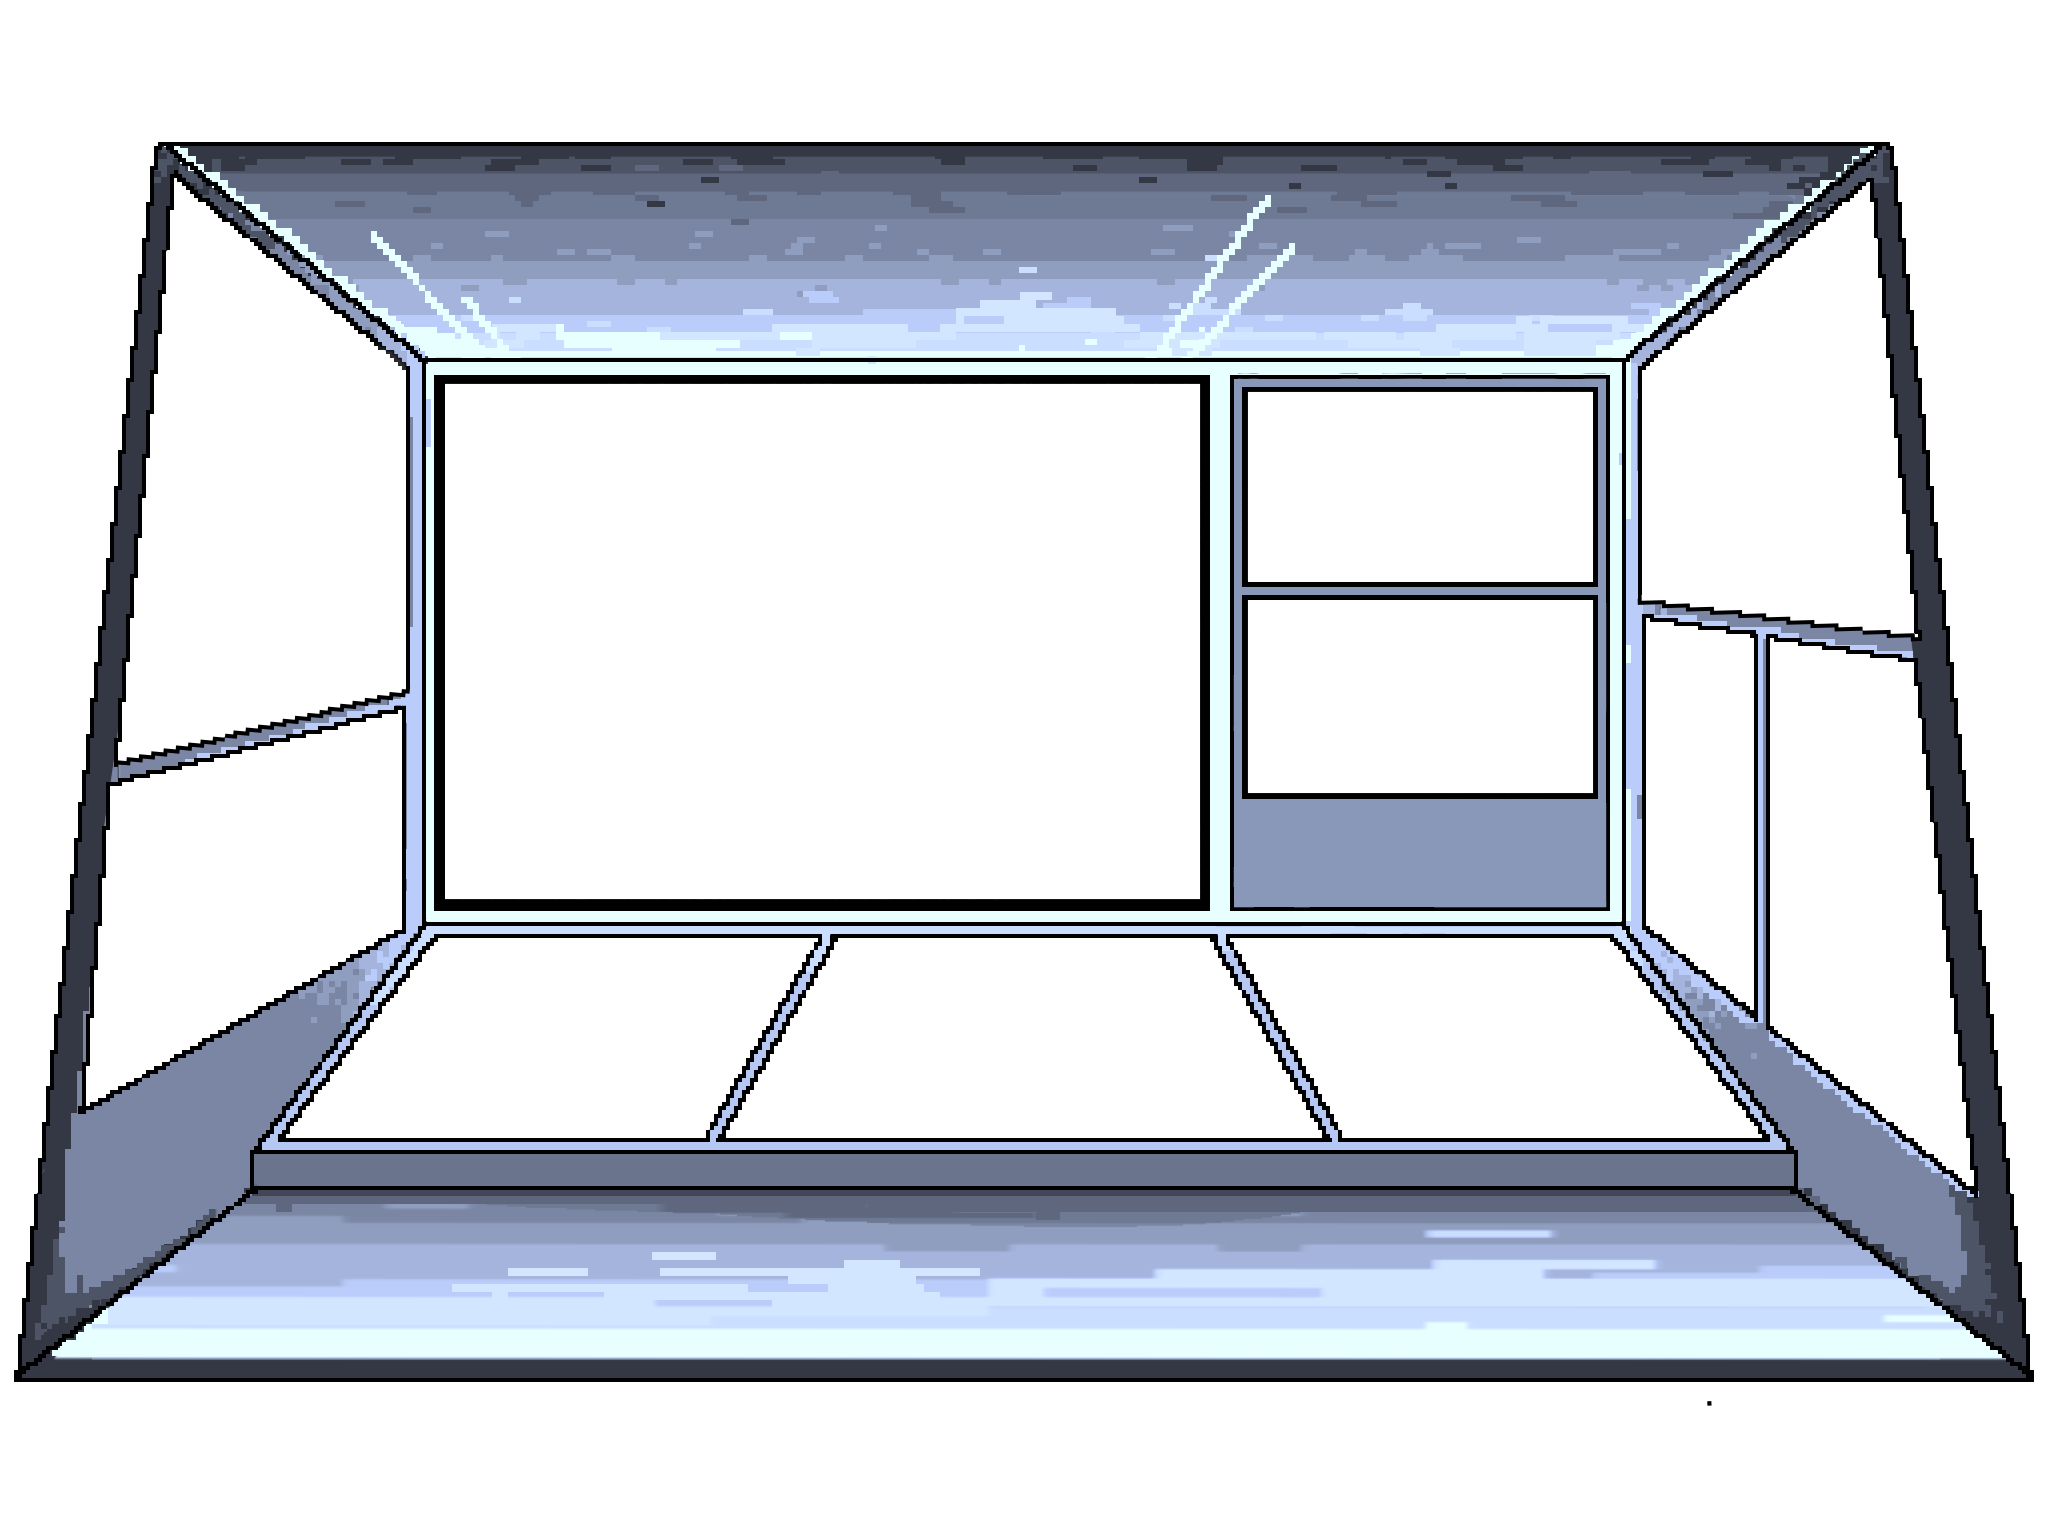
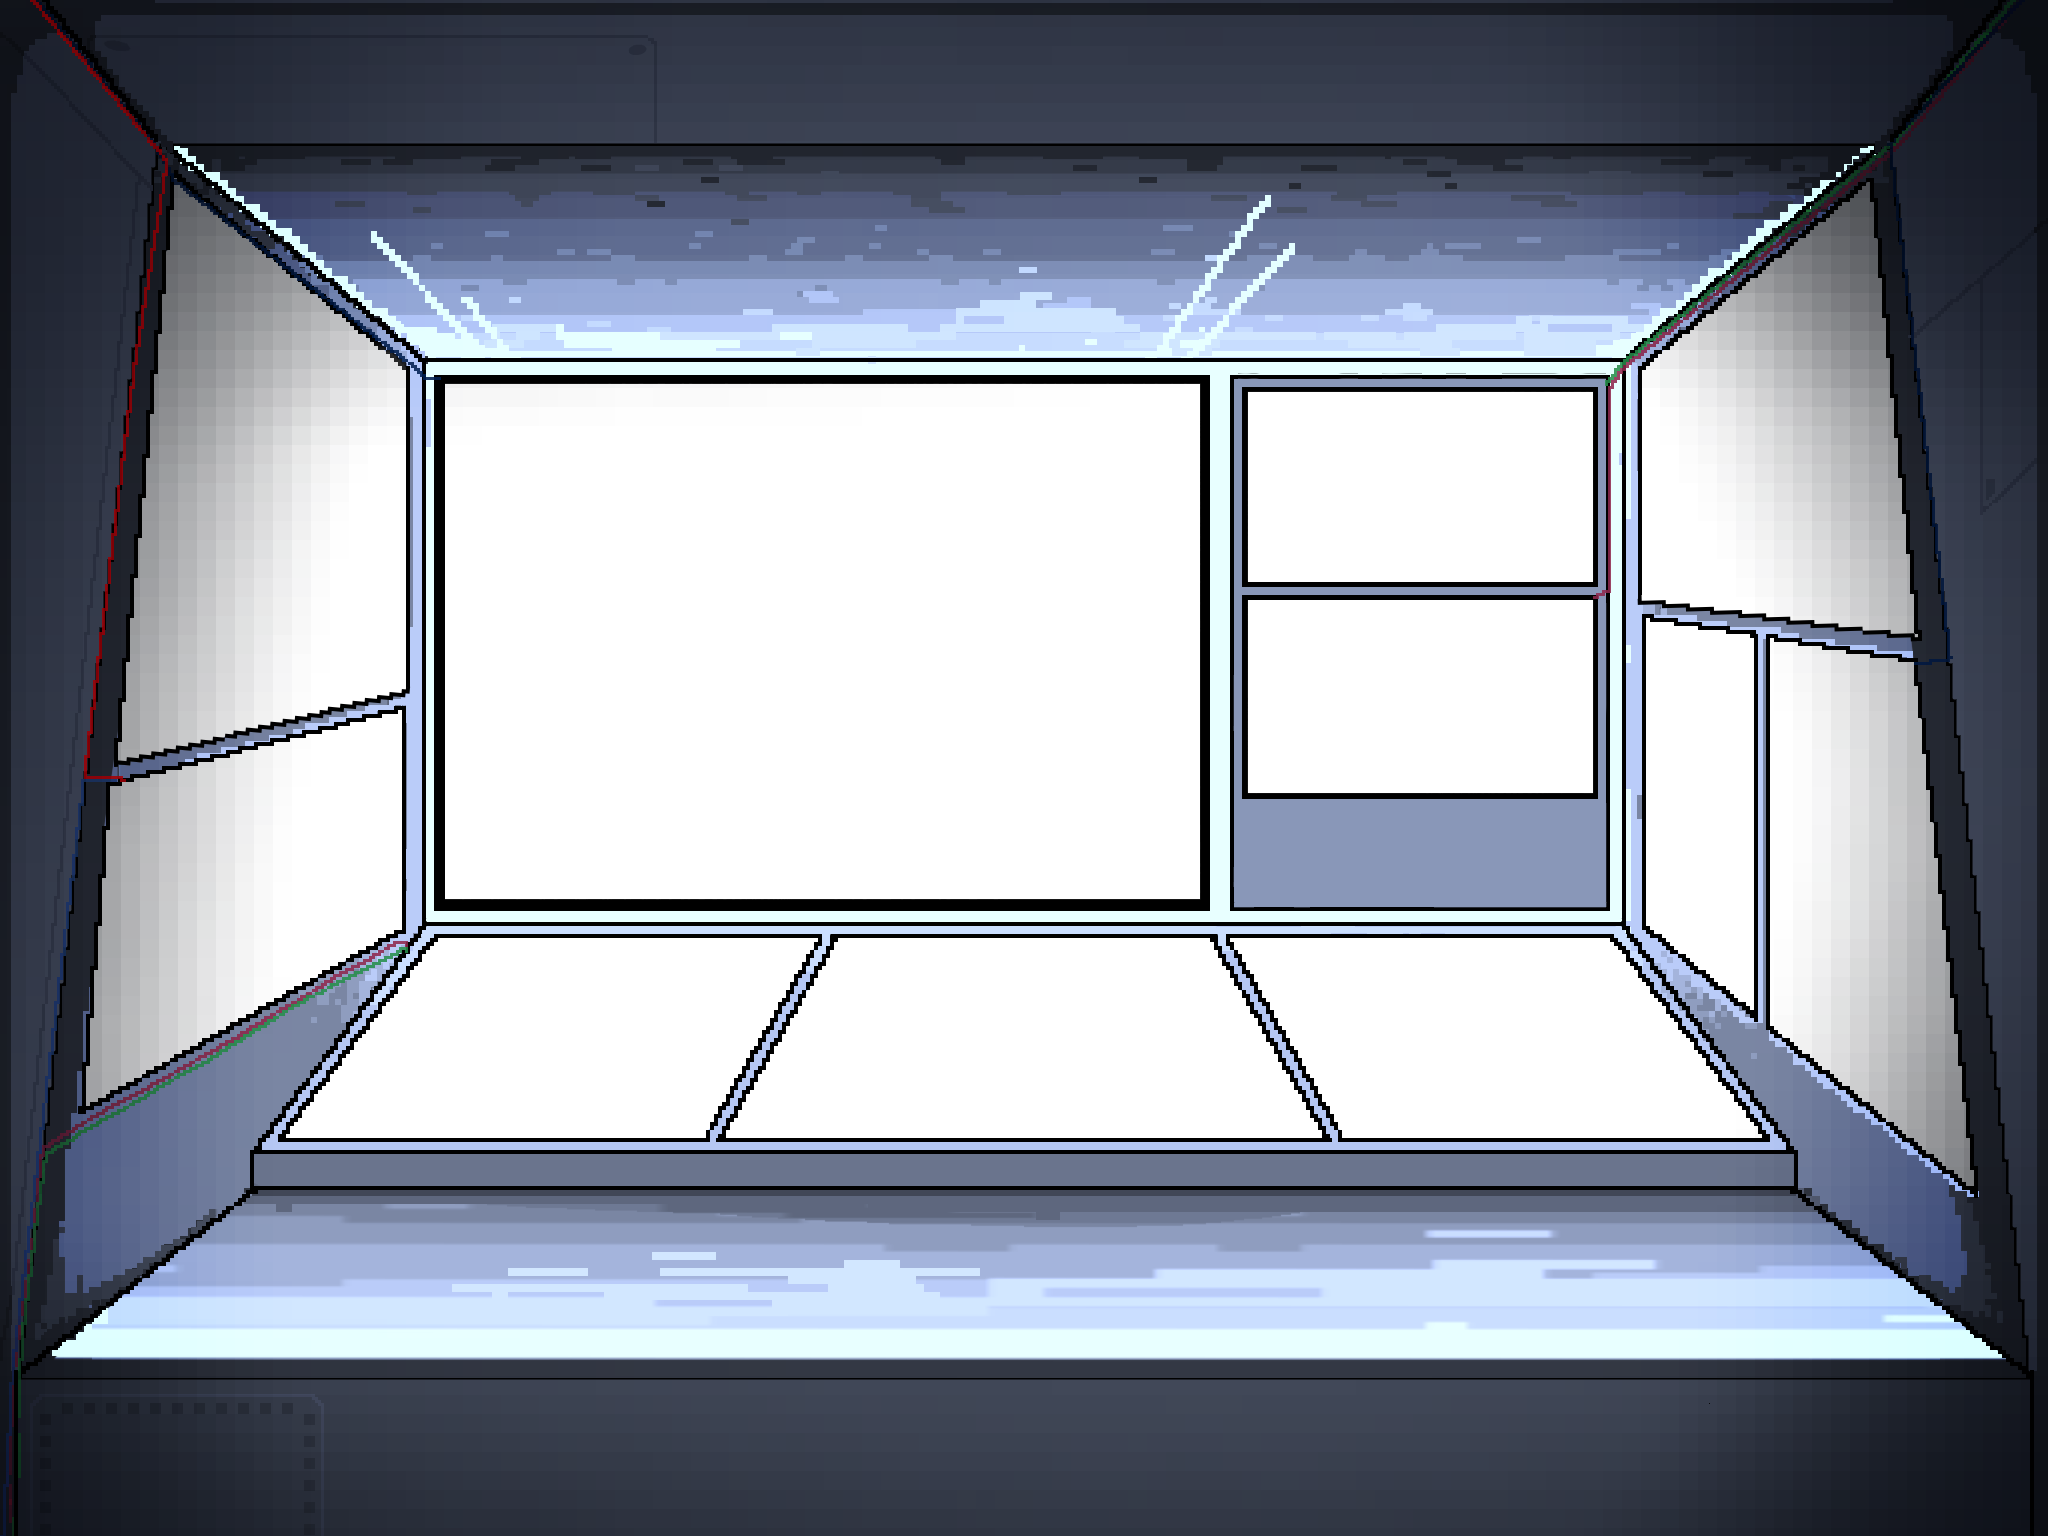
Changed CSS layout and added cams, green panels, and camera buttons

diff --git a/src/components/CameraMonitor.css b/src/components/CameraMonitor.css
@@ -1,0 +1,62 @@
+.camera-monitor-wrapper {
+  position: absolute;
+  top: 0;
+  left: 0;
+  width: 100%;
+  height: 100%;
+  pointer-events: none;
+}
+
+.camera-screen-container {
+  position: absolute;
+  top: 157px;
+  left: 197px;
+  width: 330px;
+  height: 225px;
+  overflow: hidden;
+  background: #000;
+  z-index: 1; 
+  pointer-events: auto;
+}
+
+.camera-feed-img {
+  width: 100%;
+  height: 100%;
+  object-fit: cover;
+}
+
+.cam-hud-overlay {
+  position: absolute;
+  top: 8px;
+  left: 8px;
+  color: #00ff66;
+  font-family: monospace;
+  font-size: 11px;
+  text-shadow: 0 0 4px #00ff66;
+  pointer-events: none;
+}
+
+/* Temporary Buttons */
+.cam-switch-controls {
+  position: absolute;
+  top: 525px;
+  left: 100px;
+  display: flex;
+  gap: 10px;
+  z-index: 3;
+  pointer-events: auto;
+}
+
+.cam-switch-controls button {
+  background: #222;
+  color: #00ff66;
+  border: 1px solid #00ff66;
+  padding: 4px 10px;
+  font-family: monospace;
+  cursor: pointer;
+}
+
+.cam-switch-controls button:hover {
+  background: #00ff66;
+  color: #000;
+}

diff --git a/src/components/CameraMonitor.jsx b/src/components/CameraMonitor.jsx
@@ -1,0 +1,27 @@
+import { useState } from 'react';
+import cam1 from '../assets/cams/cam1.png';
+import cam2 from '../assets/cams/cam2.png';
+import cam3 from '../assets/cams/cam3.png';
+import './CameraMonitor.css';
+
+export default function CameraMonitor() {
+  const [activeCam, setActiveCam] = useState(1);
+  const camImages = { 1: cam1, 2: cam2, 3: cam3 };
+
+  return (
+    <div className="camera-monitor-wrapper">
+      {/* The Camera Feed Screen */}
+      <div className="camera-screen-container">
+        <img src={camImages[activeCam]} alt={`Camera Feed ${activeCam}`} className="camera-feed-img" />
+        <div className="cam-hud-overlay">CAM {activeCam} - LIVE FEED</div>
+      </div>
+
+      {/* Temporary Switcher Buttons */}
+      <div className="cam-switch-controls">
+        <button onClick={() => setActiveCam(1)}>CAM 1</button>
+        <button onClick={() => setActiveCam(2)}>CAM 2</button>
+        <button onClick={() => setActiveCam(3)}>CAM 3</button>
+      </div>
+    </div>
+  );
+}

diff --git a/src/App.jsx b/src/App.jsx
@@ -10,6 +10,7 @@ import CommsPanel from './components/CommsPanel.jsx'
 import RadiationGraph from './components/RadiationGraph.jsx'
 import Console from './components/Console.jsx'
 import Overlay from './components/Overlay.jsx'
+import CameraMonitor from './components/CameraMonitor.jsx';
 
 import './styles/base.css'
 
@@ -31,7 +32,8 @@ export default function App() {
       {/* Middle: the window onto the moon */}
       <GameWindow timeLeft={timeLeft} />
 
-      <GreenPanels/>
+      <GreenPanels />
+      <CameraMonitor />
 
       {/* Right wall: comms and radiation graph */}
       <div className="right">

diff --git a/src/components/Console.css b/src/components/Console.css
@@ -25,7 +25,7 @@
 
 /* Slant the meters block to match the desk perspective */
 .control:has(.meter) {
-  transform: skewX(35deg) rotate(-1deg);
+  transform: skewX(40deg) rotate(0deg);
   transform-origin: bottom left;
 }
 
@@ -40,7 +40,7 @@
   font-size: 11px;
   font-weight: bold;
   color: #1a2233;
-  transform: translate(60px, -15px);
+  transform: translate(100px, -20px);
 }
 
 .bar {

diff --git a/src/components/ShieldSlider.css b/src/components/ShieldSlider.css
@@ -9,7 +9,7 @@
   user-select: none;
   touch-action: none;   /* so dragging doesn't scroll the page on phones */
 
-  transform: translate(50px, -10px)
+  transform: translate(100px, -10px)
 }
 
 .shield-slider:active {

diff --git a/src/components/OxygenButton.css b/src/components/OxygenButton.css
@@ -15,7 +15,7 @@
   user-select: none;
   touch-action: none;
 
-  transform: translate(-30px, -10px)
+  transform: translate(10px, -10px)
 }
 
 .o2-button img {
